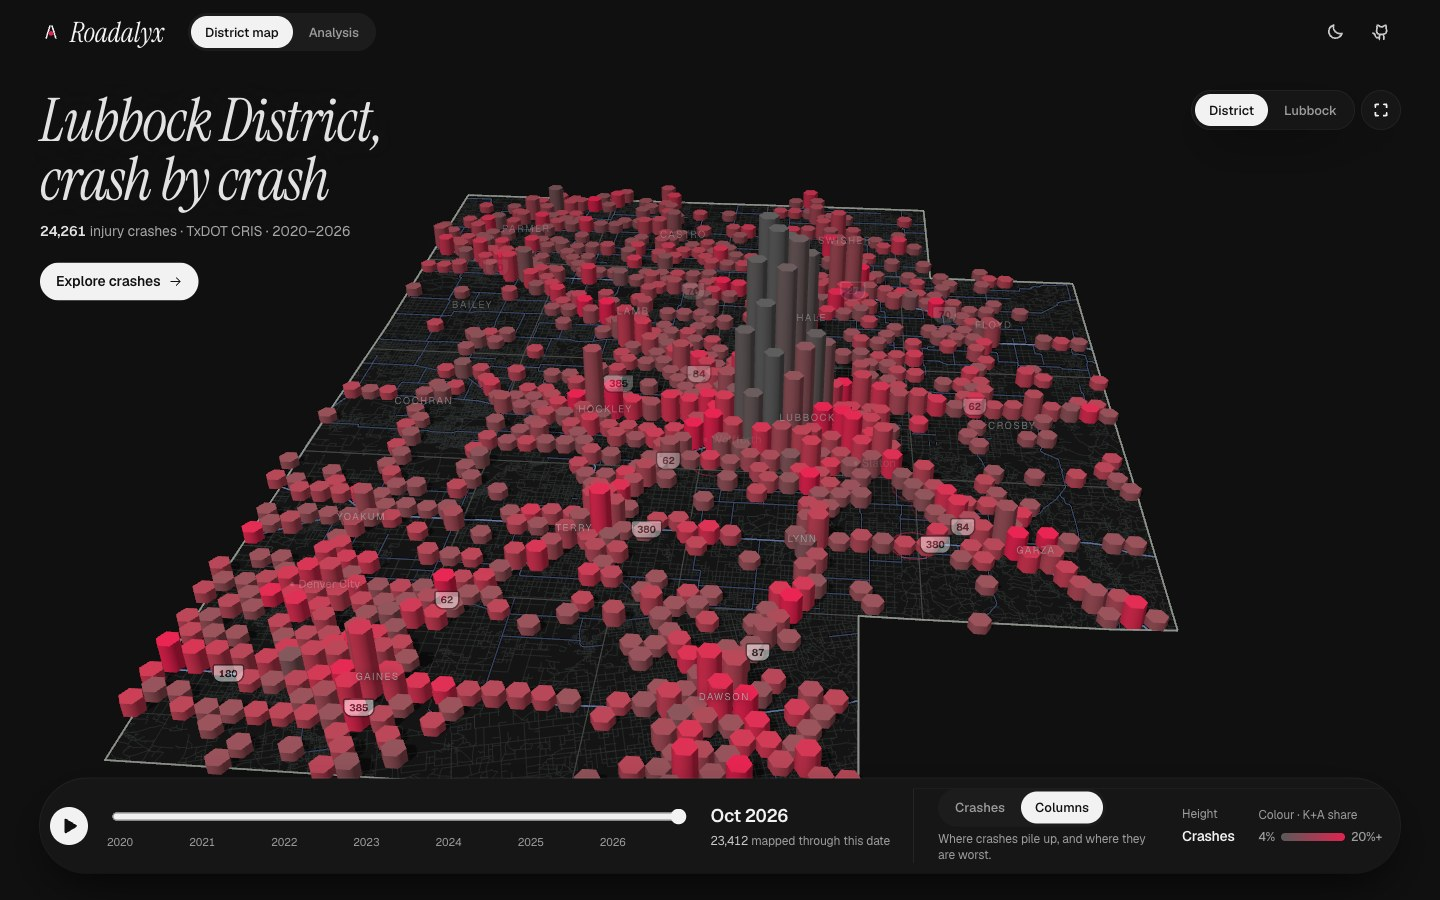
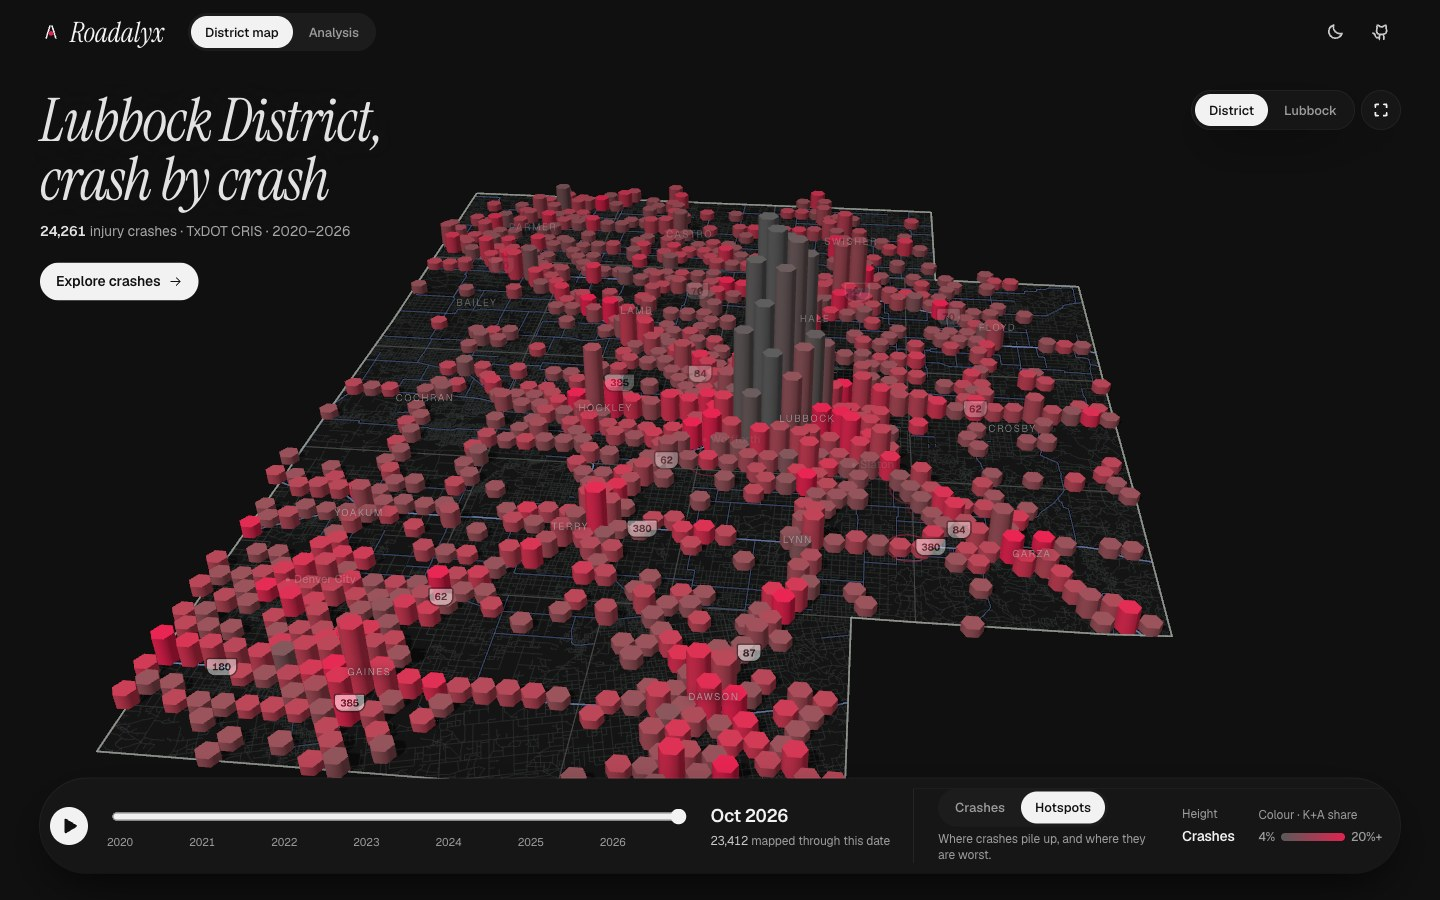
District map: the hexagon view is called Hotspots, as on the Analysis map and in safety practice; README screenshot and demo updated

Changed region(s): [[0.0625, 0.1867, 0.8125, 0.8711], [0.7188, 0.8711, 0.7812, 0.9022]]

diff --git a/web/src/components/world/Hero.tsx b/web/src/components/world/Hero.tsx
@@ -68,7 +68,7 @@ export default function Hero() {
   const [picked, setPicked] = useState<string | null>(null);
   const [touched, setTouched] = useState(false);
   const [full, setFull] = useState(false);
-  // Lights: every crash as a point. Columns: crashes per 2.6 km hexagon, height for the count, colour for K+A.
+  // Lights: every crash as a point. Hotspots: crashes per 2.6 km hexagon, height for the count, colour for K+A.
   const [mode, setMode] = useState<'lights' | 'columns'>('lights');
   const [cell, setCell] = useState<{ crashes: number; k: number; ka: number; roads: string[]; x: number; y: number } | null>(null);
 
@@ -293,7 +293,7 @@ export default function Hero() {
           <div className="hud-view">
             <Seg role="group" aria-label="What the map shows">
               <button type="button" aria-pressed={mode === 'lights'} onClick={() => setMode('lights')} disabled={broken || fallback}>Crashes</button>
-              <button type="button" aria-pressed={mode === 'columns'} onClick={() => setMode('columns')} disabled={broken || fallback}>Columns</button>
+              <button type="button" aria-pressed={mode === 'columns'} onClick={() => setMode('columns')} disabled={broken || fallback}>Hotspots</button>
             </Seg>
             <p className="hud-why">{mode === 'lights'
               ? 'Each crash where it happened. Posts: fatal and serious.'

diff --git a/web/src/components/world/district.ts b/web/src/components/world/district.ts
@@ -66,7 +66,7 @@ export interface WorldOptions {
   onDay: (day: number) => void;
   onHover: (county: string | null, x: number, y: number, road: string | null) => void;
   onSelect: (county: string | null) => void;
-  /** The column under the pointer in the Columns view, counted up to the timeline date. */
+  /** The column under the pointer in the Hotspots view, counted up to the timeline date. */
   onCell?: (cell: { crashes: number; k: number; ka: number; roads: string[] } | null, x: number, y: number) => void;
 }
 
@@ -485,7 +485,7 @@ export function createWorld(o: WorldOptions): World {
   rings.renderOrder = 3;
   scene.add(rings);
 
-  // Columns: crashes binned in hexagons of HEX km. Height grows with the crashes up to the timeline date,
+  // Hotspots: crashes binned in hexagons of HEX km. Height grows with the crashes up to the timeline date,
   // colour with the share of fatal and serious (K+A) among them. Lit, so the relief reads as relief.
   const HEX = 2.6;
   const cellsByKey = new Map<string, { at: THREE.Vector3; all: number[]; ka: number[]; k: number[]; streets: Map<number, number> }>();

diff --git a/README.md b/README.md
@@ -25,7 +25,7 @@
 
 <p align="center">
   <a href="https://i2swgeojg6x3hacixkymlgrei40hcxso.lambda-url.us-east-2.on.aws/">
-    <img src="docs/assets/demo.gif" width="880" alt="Demo in the dark theme: the District map, crashes building up from 2020 to 2026, then the Columns view with crashes per hexagon (height) and K+A share (colour); the Analysis page with the Intersection filter, the top corridors and the charts.">
+    <img src="docs/assets/demo.gif" width="880" alt="Demo in the dark theme: the District map, crashes building up from 2020 to 2026, then the Hotspots view with crashes per hexagon (height) and K+A share (colour); the Analysis page with the Intersection filter, the top corridors and the charts.">
   </a>
 </p>
 
@@ -362,7 +362,7 @@ I kept the design small: one filter implementation for the aggregate and search 
 I built the frontend in React ([`web/`](web/)) on the same public API, and the same Lambda function serves it. It has two pages:
 
 - **[Analysis](https://i2swgeojg6x3hacixkymlgrei40hcxso.lambda-url.us-east-2.on.aws/analysis)**, for working with the data. Filters (county, severity, years, road class, factor, road users) update everything at once and are kept in the URL, so a view can be shared. It shows the key figures, a map of every located crash, severity and factor charts, trends on four time axes, a day-by-hour grid, a breakdown table, the crash records, and a CSV download of the current selection. On the map, a Location filter splits intersection, segment and driveway crashes, and a Top corridors list ranks streets by crashes: clicking one filters the whole page to that street. Crashes at the same spot merge into one mark that grows with their number, so a hot intersection stands out. Hovering a county shows its figures and a click filters the page to it. Highways are drawn as on a road map, with Interstate, US and state route shields. A Hotspots view shows crash density, and a 3D view tilts the map over the buildings.
-- **[District map](https://i2swgeojg6x3hacixkymlgrei40hcxso.lambda-url.us-east-2.on.aws/district-map)**, a 3D view of the 17 counties, with their roads and towns from Census TIGER/Line, where the crashes build up month by month from 2020 to 2026: lights at night in the dark theme, a paper road map in the light one. Clicking a county opens its figures and a link to the Analysis page. A Columns view bins the crashes in 2.6 km hexagons: height for the number of crashes, colour for the K+A share, adjusted towards the district mean for cells with few crashes (empirical Bayes, as in the HSM), so rural highways with severe crashes stand out from the busy but less severe city.
+- **[District map](https://i2swgeojg6x3hacixkymlgrei40hcxso.lambda-url.us-east-2.on.aws/district-map)**, a 3D view of the 17 counties, with their roads and towns from Census TIGER/Line, where the crashes build up month by month from 2020 to 2026: lights at night in the dark theme, a paper road map in the light one. Clicking a county opens its figures and a link to the Analysis page. A Hotspots view bins the crashes in 2.6 km hexagons: height for the number of crashes, colour for the K+A share, adjusted towards the district mean for cells with few crashes (empirical Bayes, as in the HSM), so rural highways with severe crashes stand out from the busy but less severe city.
 
 Both pages have a light and a dark theme (saved per browser, following the system by default). The interface is black and white so the only colours are the K, A, B and C severities.
 
@@ -373,7 +373,7 @@ Both pages have a light and a dark theme (saved per browser, following the syste
 </p>
 
 <p align="center">
-  <img src="docs/assets/district-map.jpg" width="880" alt="The District map in the dark theme, Columns view: the 17 counties in 3D with crashes per 2.6 km hexagon. Lubbock stands tallest but grey (many, mostly minor crashes); rural highways such as US 385, US 84 and US 87 stand in red (fewer but more severe crashes). The timeline bar holds the Crashes / Columns switch with its legend.">
+  <img src="docs/assets/district-map.jpg" width="880" alt="The District map in the dark theme, Hotspots view: the 17 counties in 3D with crashes per 2.6 km hexagon. Lubbock stands tallest but grey (many, mostly minor crashes); rural highways such as US 385, US 84 and US 87 stand in red (fewer but more severe crashes). The timeline bar holds the Crashes / Hotspots switch with its legend.">
 </p>
 
 Charts have text equivalents (tooltips and data tables), work with the keyboard, and respect the reduced-motion setting.
